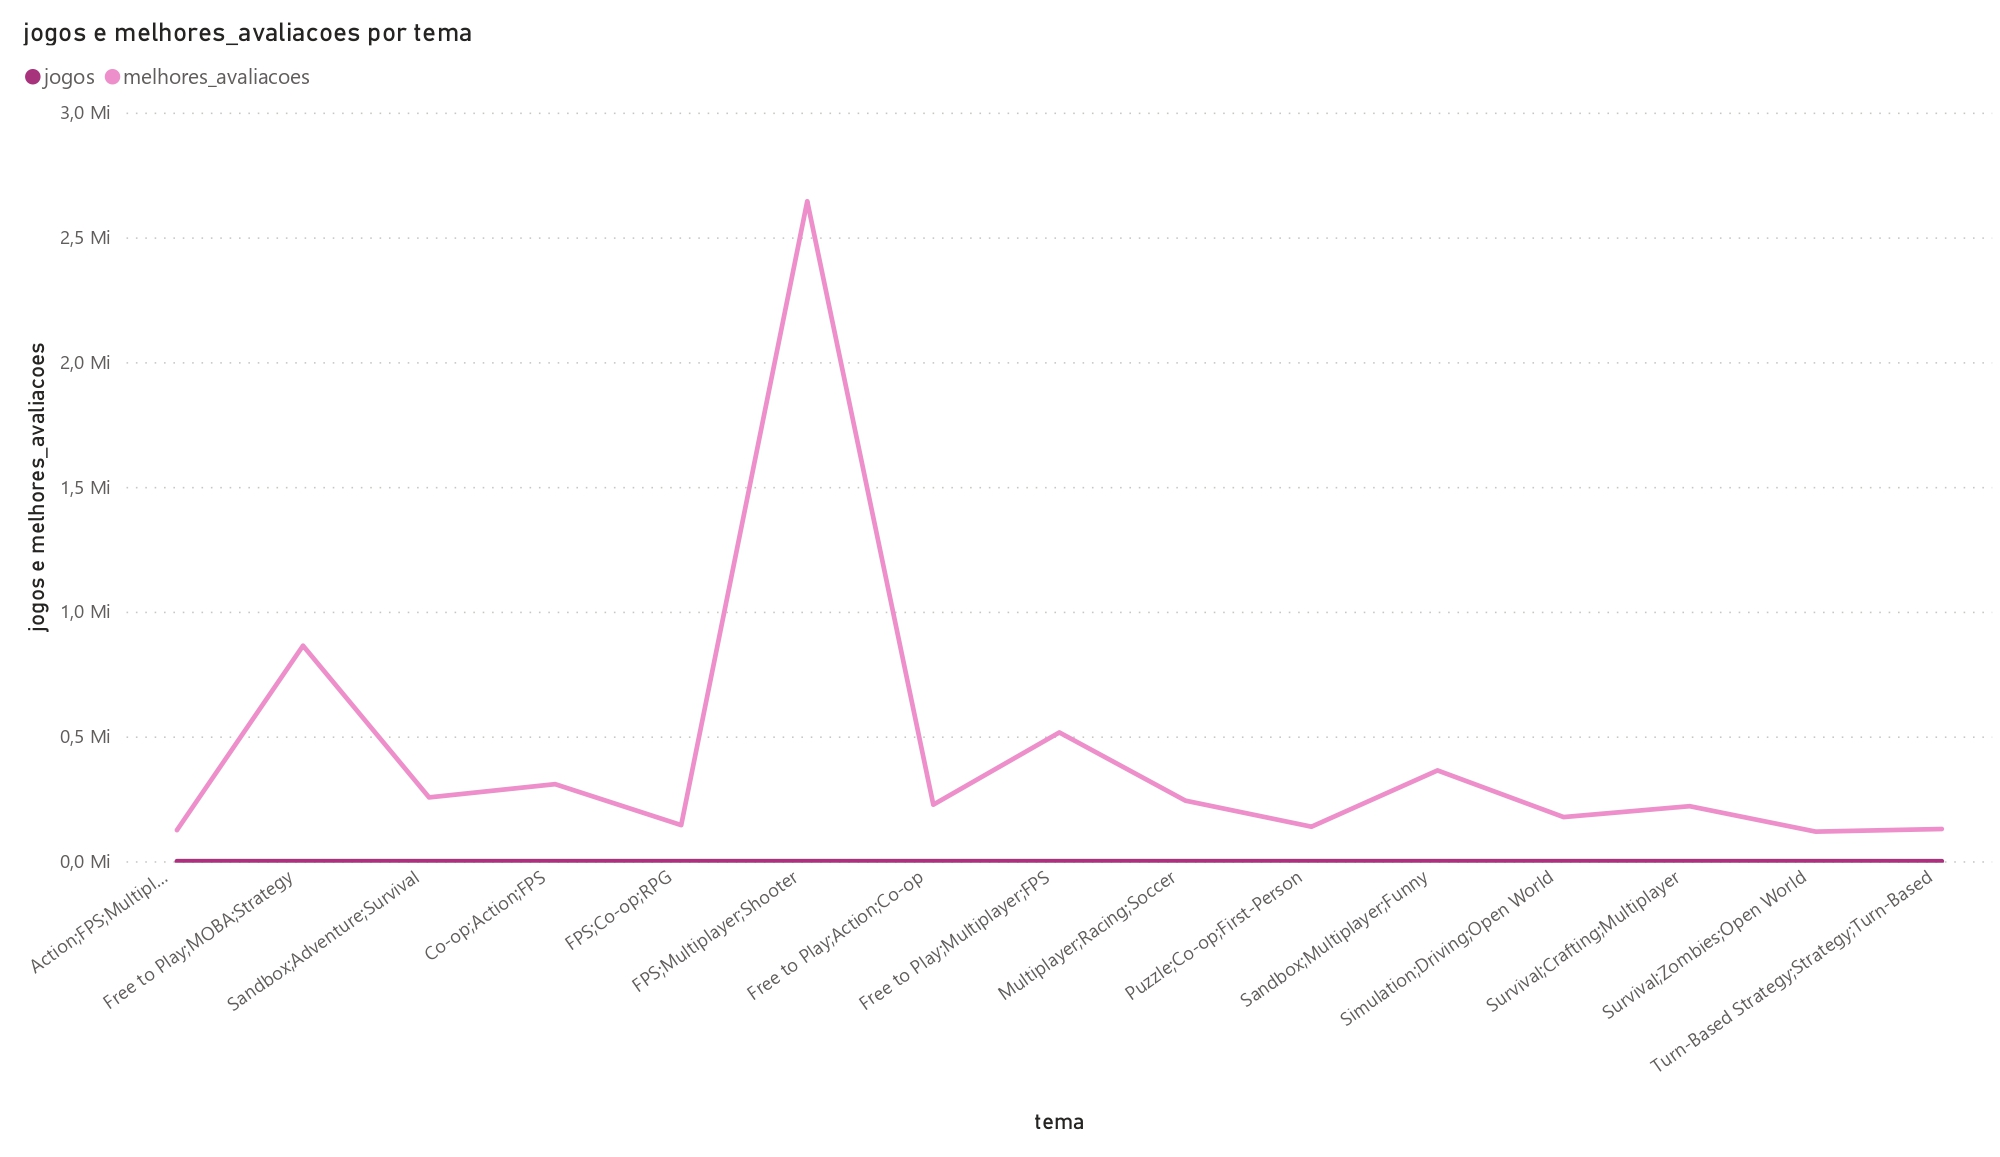
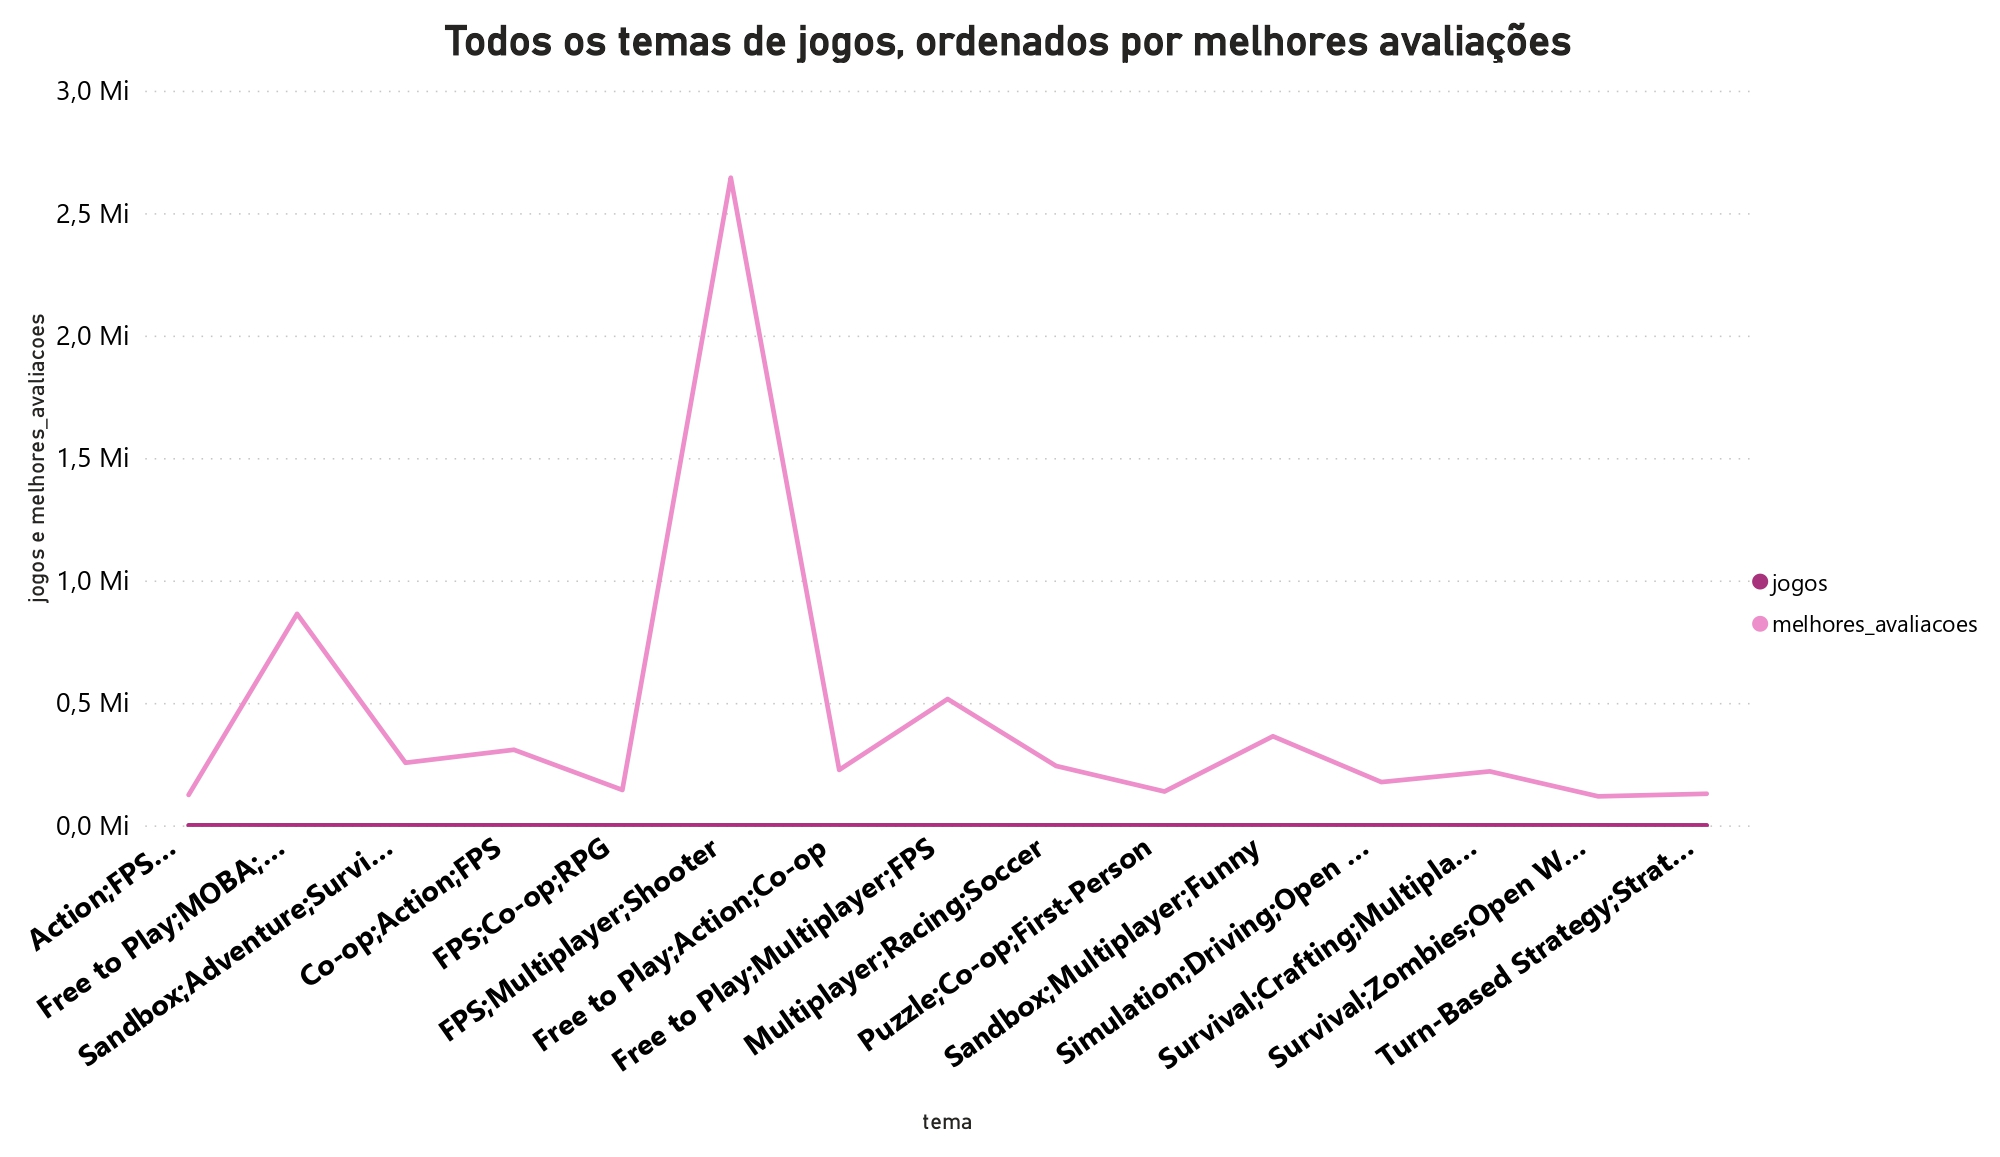
Update dos graficos no readme 3

diff --git a/README.md b/README.md
@@ -380,7 +380,7 @@ ORDER BY
     melhores_avaliacoes desc
 LIMIT 15;
 ```
-![image](https://user-images.githubusercontent.com/67427249/123199838-ff116100-d485-11eb-9d32-a86c56a6a686.png)
+![image](https://media.discordapp.net/attachments/939971983536439368/940550926127738890/todos_os_temas_de_jogos__ordenados_por_melhores_avaliacoes.jpg?width=781&height=452)
 
 ### Pergunta 15
 
@@ -505,7 +505,7 @@ ORDER BY
     owners DESC
 LIMIT 1);
 ```
-![image](https://user-images.githubusercontent.com/67427249/123199838-ff116100-d485-11eb-9d32-a86c56a6a686.png)
+![image](https://media.discordapp.net/attachments/939971983536439368/940550925720903700/avaliacao_de_temas_mais_famosos_e_o_jogo_com_melhor_avaliacao_entre_eles.png?width=803&height=452)
 
 ## 🦸 Autores
 
